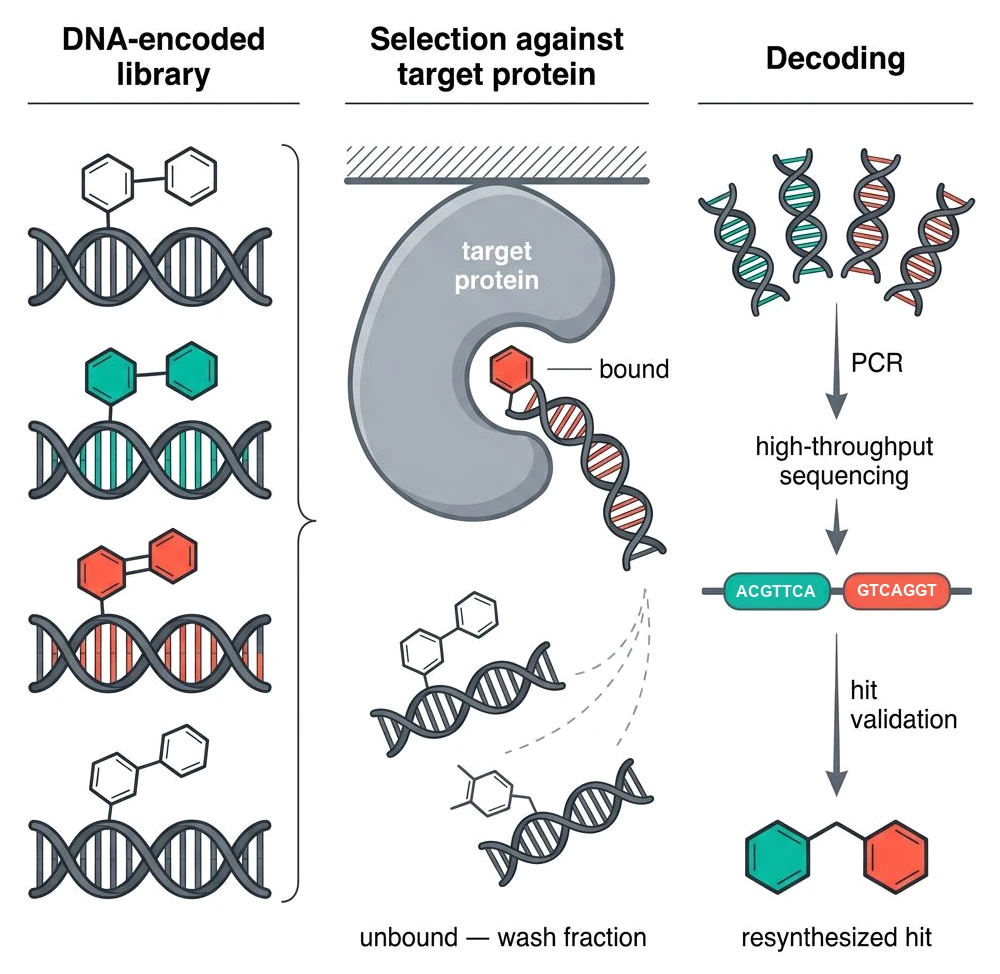
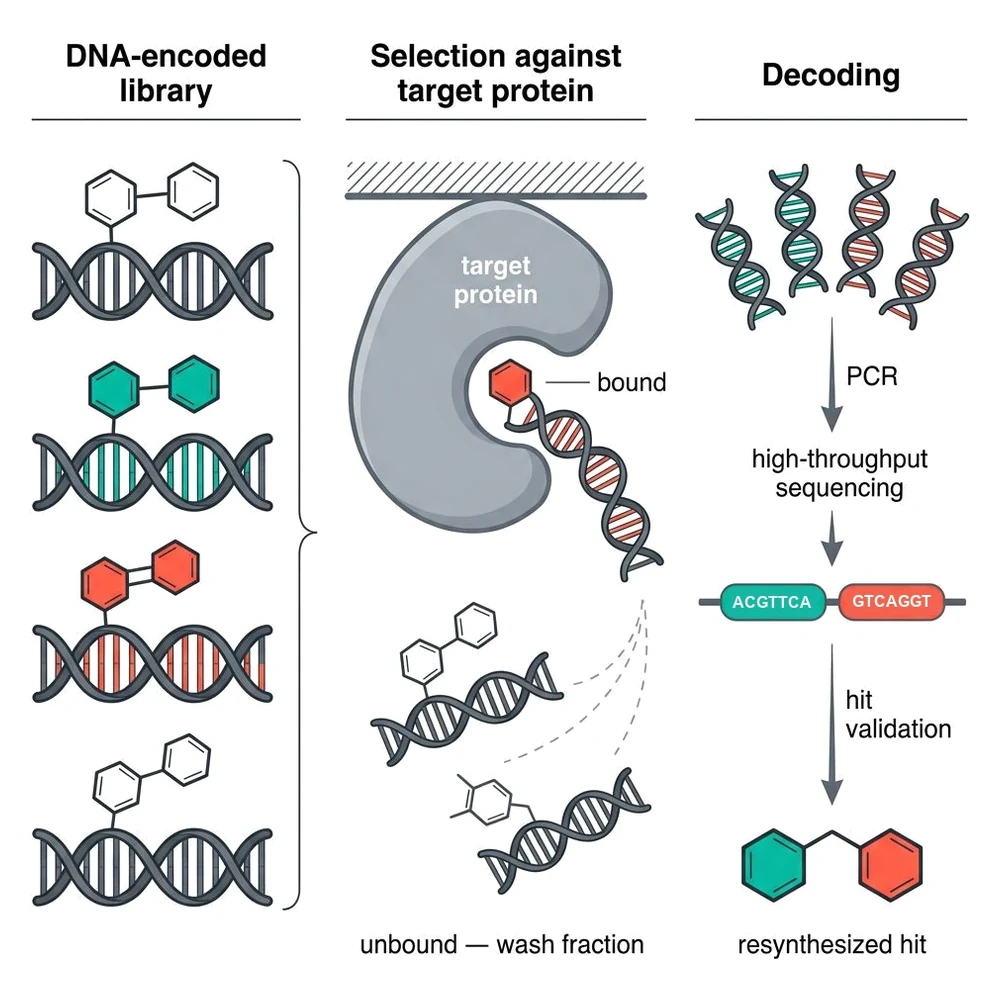
Make the three modality figures render identically
The PDC figure was coming out at 403px wide against 561px for the other two.
The flipped row swapped the sides with `order` but left the track widths alone,
so the figure landed in the 1fr column instead of the 1.35fr one. Flip the
columns as well.

The source files were also each a slightly different shape (1.027 / 1.004 /
0.998) with uneven internal margins. Re-centre all three on a 1000x1000 canvas
with the content at 94%, so the rendered figures line up exactly rather than
merely closely.

Claude-Session: https://claude.ai/code/session_01QVPHMuGzLKW8T12vC5J8Cf

diff --git a/index.html b/index.html
@@ -135,7 +135,7 @@
 
         <figure class="explainer__row" data-reveal>
           <div class="explainer__media">
-            <img src="/assets/img/del-workflow.webp" width="1000" height="974" loading="lazy" decoding="async"
+            <img src="/assets/img/del-workflow.webp" width="1000" height="1000" loading="lazy" decoding="async"
                  alt="Three stages side by side. DNA-encoded library: small molecules
                       each attached to a DNA double helix that encodes their structure.
                       Selection against target protein: the library is washed over an
@@ -155,7 +155,7 @@
 
         <figure class="explainer__row explainer__row--flip" data-reveal>
           <div class="explainer__media">
-            <img src="/assets/img/pdc-structure.webp" width="1016" height="1012" loading="lazy" decoding="async"
+            <img src="/assets/img/pdc-structure.webp" width="1000" height="1000" loading="lazy" decoding="async"
                  alt="A peptide-drug conjugate broken into three parts: a chain of linked
                       beads labelled Peptide, a coiled Linker, and a filled circle
                       labelled Payload. Below, each part is expanded. Homing peptides:
@@ -176,7 +176,7 @@
 
         <figure class="explainer__row" data-reveal>
           <div class="explainer__media">
-            <img src="/assets/img/tpd-protac-riptac.webp" width="999" height="1001" loading="lazy" decoding="async"
+            <img src="/assets/img/tpd-protac-riptac.webp" width="1000" height="1000" loading="lazy" decoding="async"
                  alt="Two approaches side by side. PROTAC: a bifunctional molecule brings
                       an E3 ligase and the target protein together, the target is
                       ubiquitinated and destroyed by the proteasome, and the molecule is

diff --git a/assets/css/main.css b/assets/css/main.css
@@ -563,6 +563,9 @@ hr { border: 0; border-top: 1px solid var(--c-line); margin: var(--sp-12) 0; }
 
 @media (min-width: 880px) {
   .explainer__row { grid-template-columns: 1.35fr 1fr; gap: var(--sp-12); }
+  /* Flipping the sides has to flip the track widths too, or the figure lands in
+     the narrow column and renders noticeably smaller than its neighbours. */
+  .explainer__row--flip { grid-template-columns: 1fr 1.35fr; }
   .explainer__row--flip .explainer__media { order: 2; }
 }
 
